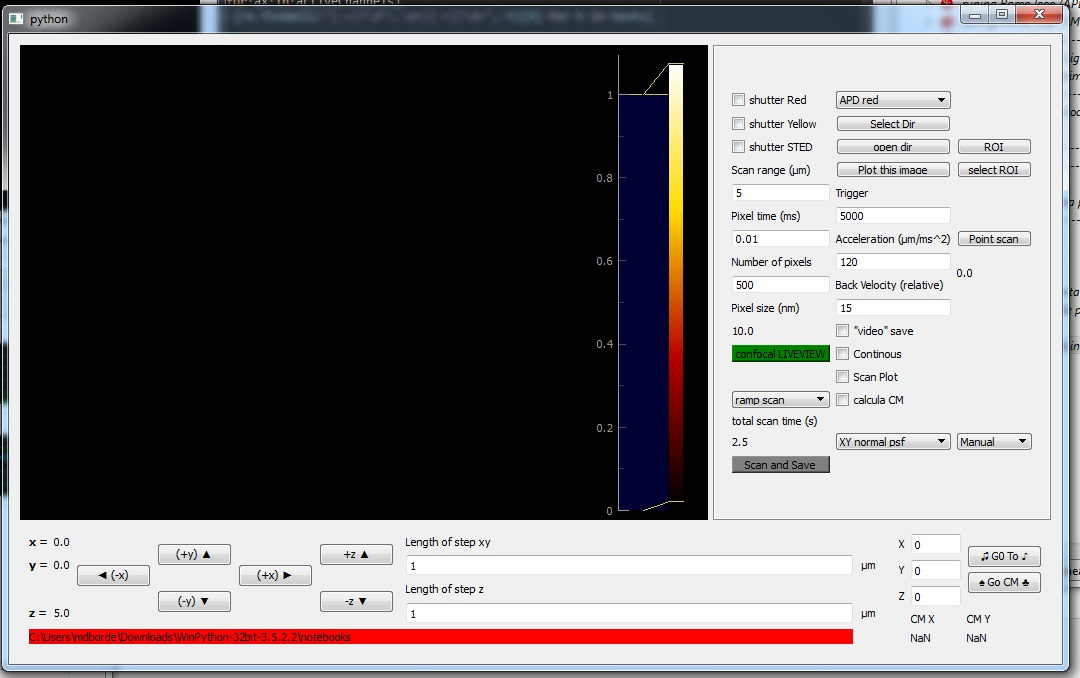
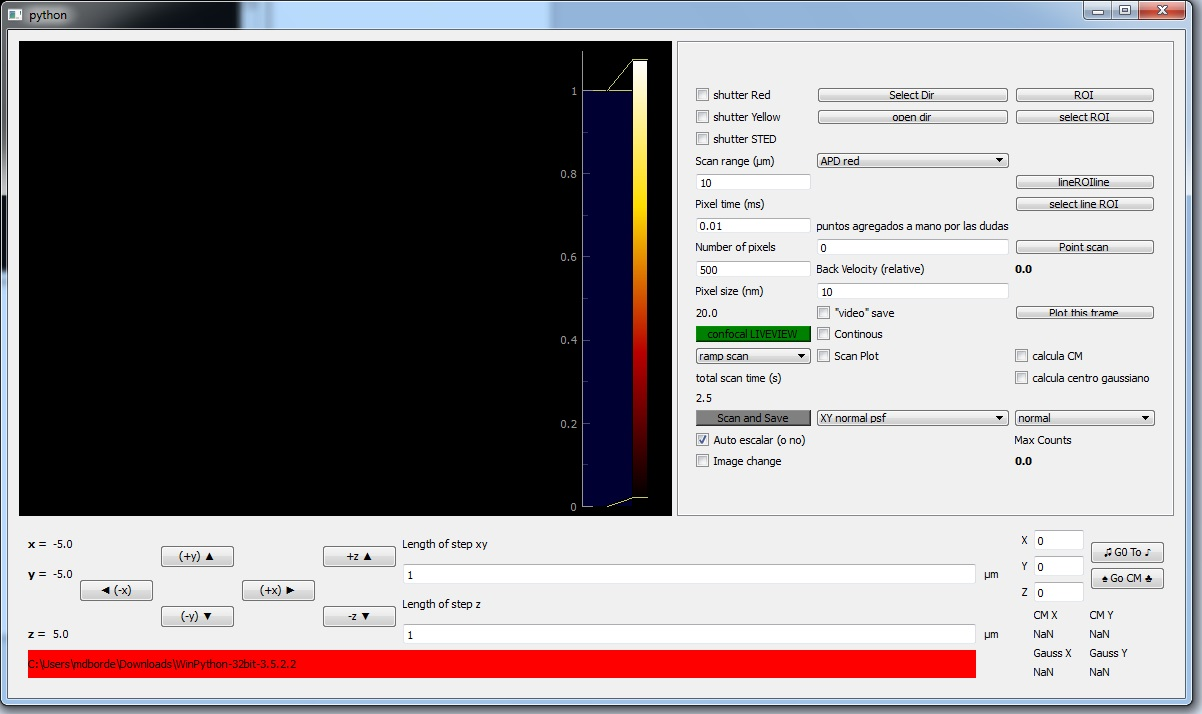
1ra version 'definitiva' para usar. Con ejecutable  y todo

diff --git a/Final -GitHub.py b/Final -GitHub.py
@@ -55,7 +55,7 @@ class ScanWidget(QtGui.QFrame):
     def graphplot(self):
 #        if self.dy==0:
 #            self.paramChanged()
-        self.getInitPos()
+#        self.getInitPos()
         self.paramChangedInitialize()
         if self.graphcheck.isChecked():
             if self.imagecheck.isChecked():
@@ -210,6 +210,7 @@ class ScanWidget(QtGui.QFrame):
 
     # autoLevel image
         self.autoLevelscheck = QtGui.QCheckBox('Auto escalar (o no)')
+        self.autoLevelscheck.setChecked(True)
         self.autoLevelscheck.clicked.connect(self.autoLevelset)
 
     # Shutters buttons
@@ -331,16 +332,16 @@ class ScanWidget(QtGui.QFrame):
         subgrid.addWidget(self.pixelSizeLabel,      9, 1)
         subgrid.addWidget(self.pixelSizeValue,     10, 1)
         subgrid.addWidget(self.liveviewButton,     11, 1)
-        subgrid.addWidget(self.scanMode,            13, 1)
-        subgrid.addWidget(self.timeTotalLabel,      14, 1)
-        subgrid.addWidget(self.timeTotalValue,      15, 1)
-        subgrid.addWidget(self.saveimageButton,     16, 1)
-        subgrid.addWidget(self.autoLevelscheck,     17, 1)
-
+        subgrid.addWidget(self.scanMode,           12, 1)
+        subgrid.addWidget(self.timeTotalLabel,     13, 1)
+        subgrid.addWidget(self.timeTotalValue,     14, 1)
+        subgrid.addWidget(self.saveimageButton,    15, 1)
+        subgrid.addWidget(self.autoLevelscheck,    16, 1)
+        subgrid.addWidget(self.imagecheck,         17, 1)
     # Columna 2
-        subgrid.addWidget(self.detectMode,        0, 2)
-        subgrid.addWidget(self.NameDirButton,     1, 2)
-        subgrid.addWidget(self.OpenButton,        2, 2)
+        subgrid.addWidget(self.NameDirButton,     0, 2)
+        subgrid.addWidget(self.OpenButton,        1, 2)
+        subgrid.addWidget(self.detectMode,        3, 2)
 #        subgrid.addWidget(self.triggerLabel,       4, 2)
 #        subgrid.addWidget(self.triggerEdit,        5, 2)
         subgrid.addWidget(self.accelerationLabel,  6, 2)
@@ -350,22 +351,23 @@ class ScanWidget(QtGui.QFrame):
         subgrid.addWidget(self.VideoCheck,        10, 2)
         subgrid.addWidget(self.Continouscheck,    11, 2)
         subgrid.addWidget(self.graphcheck,        12, 2)
-        subgrid.addWidget(self.CMcheck,           13, 2)
         subgrid.addWidget(self.PSFMode,            15, 2)
-        subgrid.addWidget(self.maxcountsLabel,     16, 2)
-        subgrid.addWidget(self.maxcountsEdit,      17, 2)
+
+
     # Columna 3
 #        subgrid.addWidget(self.algobutton,        0, 3)
-        subgrid.addWidget(self.ROIButton,           2, 3)
-        subgrid.addWidget(self.selectROIButton,     3, 3)
+        subgrid.addWidget(self.ROIButton,          0, 3)
+        subgrid.addWidget(self.selectROIButton,    1, 3)
         subgrid.addWidget(self.ROIlineButton,       4, 3)
         subgrid.addWidget(self.selectlineROIButton, 5, 3)
-        subgrid.addWidget(self.PointButton,         6, 3)
-        subgrid.addWidget(self.PointLabel,          7, 3)
-        subgrid.addWidget(self.plotLivebutton,       9, 3)
-        subgrid.addWidget(self.imagecheck,            11, 3)
-        subgrid.addWidget(self.Gausscheck,             13, 3)
-        subgrid.addWidget(self.presetsMode,             15, 3)
+        subgrid.addWidget(self.PointButton,          7, 3)
+        subgrid.addWidget(self.PointLabel,           8, 3)
+        subgrid.addWidget(self.plotLivebutton,       10, 3)
+        subgrid.addWidget(self.CMcheck,               12, 3)
+        subgrid.addWidget(self.Gausscheck,            13, 3)
+        subgrid.addWidget(self.presetsMode,            15, 3)
+        subgrid.addWidget(self.maxcountsLabel,         16, 3)
+        subgrid.addWidget(self.maxcountsEdit,          17, 3)
 
 # ---  Positioner part ---------------------------------
         # Axes control
@@ -537,6 +539,7 @@ class ScanWidget(QtGui.QFrame):
         self.image2 = np.zeros((self.numberofPixels, self.numberofPixels))#self.blankImage
         self.dy = 0
 
+        self.imageWidget = imageWidget
         #self.startRutine()  # que lea de algun lado la posicion y la setee como start x,y,z
 
 #    def startRutine(self):
@@ -1011,16 +1014,16 @@ class ScanWidget(QtGui.QFrame):
 
 #        j = self.dy
 
-#        if self.pixelsoffL == 0:
-#            self.counts[0] = self.APD[Napd-1] - self.APD[0]
-#            self.counts2[0] = self.APD2[Napd-1] - self.APD2[0]
-#
-#        else:
-#            self.counts[0] = self.APD[(Napd*(1+self.pixelsoffL))-1]-self.APD[(Napd*(self.pixelsoffL))-1]
-#            self.counts2[0] = self.APD2[(Napd*(1+self.pixelsoffL))-1]-self.APD2[(Napd*(1+self.pixelsoffL-1))-1]
+        if self.pixelsoffL == 0:
+            self.counts[0] = self.APD[Napd-1] - self.APD[0]
+            self.counts2[0] = self.APD2[Napd-1] - self.APD2[0]
 
-        self.counts[0] = 0
-        self.counts[0:5] = 5  # probando cosas
+        else:
+            self.counts[0] = self.APD[(Napd*(1+self.pixelsoffL))-1]-self.APD[(Napd*(self.pixelsoffL))-1]
+            self.counts2[0] = self.APD2[(Napd*(1+self.pixelsoffL))-1]-self.APD2[(Napd*(1+self.pixelsoffL-1))-1]
+
+#        self.counts[0] = 0
+#        self.counts[0:5] = 5  # probando cosas
 
         for i in range(1, self.numberofPixels):
             ei = ((self.pixelsoffL+i)   * Napd)-1
@@ -2133,13 +2136,14 @@ class ScanWidget(QtGui.QFrame):
 
 # %% Roi lineal
     def ROIlinear(self):
+        largo = self.numberofPixels/1.5+10
         def updatelineal():
             array = self.linearROI.getArrayRegion(self.image, self.img)
             self.curve.setData(array)
 
         if self.ROIlineButton.isChecked():
 
-            self.linearROI = pg.LineSegmentROI([[10, 64], [120,64]], pen='m')
+            self.linearROI = pg.LineSegmentROI([[10, 64], [largo,64]], pen='m')
             self.vb.addItem(self.linearROI)
             self.linearROI.sigRegionChanged.connect(updatelineal)
             self.p6 = self.imageWidget.addPlot(row=2,col=1,title="Updating plot")

diff --git a/PC position y scan -Qt4.py b/PC position y scan -Qt4.py
@@ -1169,71 +1169,94 @@ y guarde la imagen"""
         print(np.round(time.time()-tec,4),"s tarda con 1 for\n")
         self.img.setImage(mapa, autoLevels=False)
 
-# %%  ROI cosas
+        # %%  ROI cosas
     def ROIlinear(self):
-        self.NofPixels = self.numberofPixels
+        def updatelineal():
+            array = self.linearROI.getArrayRegion(self.image, self.img)
+            self.curve.setData(array)
 
         if self.ROIlineButton.isChecked():
-            print("entra")
 
-            self.linearROI = pg.LineSegmentROI((0,50))
+            self.linearROI = pg.LineSegmentROI([[10, 64], [120,64]], pen='m')
             self.vb.addItem(self.linearROI)
-#            self.roi = viewbox_tools.cropROI(ROIpos, self.vb)
-            print("termina")
+            self.linearROI.sigRegionChanged.connect(updatelineal)
+            self.p6 = self.imageWidget.addPlot(row=2,col=1,title="Updating plot")
+            self.curve = self.p6.plot(open='y')
         else:
             self.vb.removeItem(self.linearROI)
             self.linearROI.hide()
+            self.imageWidget.removeItem(self.p6)
 
     def selectLineROI(self):
-        self.NofPixels = self.numberofPixels
-        self.pxSize = self.pixelSize
-        self.liveviewStop()
-
-        print("Estoy en", float(self.xLabel.text()), float(self.yLabel.text()),
-              float(self.zLabel.text()))
-
         array = self.linearROI.getArrayRegion(self.image, self.img)
-        ROIpos = np.array(self.linearROI.pos())
-        print(ROIpos)
-        print(array)
-        newPos_px = tools.ROIscanRelativePOS(ROIpos,
-                                             self.NofPixels,
-                                             np.shape(array)[0])
-        print(newPos_px)
-#        print(self.initialPosition)
-        newPos_µm = newPos_px * self.pxSize + self.initialPosition[0:2]
-#
-        newPos_µm = np.around(newPos_µm, 2)
-        print(newPos_µm)
-        newRange_px = np.shape(array)[0]
-        newRange_µm = self.pxSize * newRange_px
-        newRange_µm = np.around(newRange_µm, 2)
-        print(newRange_px, newRange_µm)
         plt.plot(array)
         plt.show()
-        #-- Generate some data...
-#        x, y = np.mgrid[-5:5:0.1, -5:5:0.1]
-#        z = np.sqrt(x**2 + y**2) + np.sin(x**2 + y**2)
-#        
-#        #-- Extract the line...
-#        # Make a line with "num" points...
-#        x0, y0 = array[0] # These are in _pixel_ coordinates!!
-#        x1, y1 = 60, 75
-#        length = int(np.hypot(x1-x0, y1-y0))
-#        x, y = np.linspace(x0, x1, length), np.linspace(y0, y1, length)
-#        
-#        # Extract the values along the line
-#        zi = self.image[x.astype(np.int), y.astype(np.int)]
-#        
-#        #-- Plot...
-#        fig, axes = plt.subplots(nrows=2)
-#        axes[0].imshow(z)
-#        axes[0].plot([x0, x1], [y0, y1], 'ro-')
-#        axes[0].axis('image')
-#        
-#        axes[1].plot(zi)
-#        
+
+# %%  ROI cosas
+#    def ROIlinear(self):
+#        self.NofPixels = self.numberofPixels
+#
+#        if self.ROIlineButton.isChecked():
+#            print("entra")
+#
+#            self.linearROI = pg.LineSegmentROI((0,50))
+#            self.vb.addItem(self.linearROI)
+##            self.roi = viewbox_tools.cropROI(ROIpos, self.vb)
+#            print("termina")
+#        else:
+#            self.vb.removeItem(self.linearROI)
+#            self.linearROI.hide()
+#
+#    def selectLineROI(self):
+#        self.NofPixels = self.numberofPixels
+#        self.pxSize = self.pixelSize
+#        self.liveviewStop()
+#
+#        print("Estoy en", float(self.xLabel.text()), float(self.yLabel.text()),
+#              float(self.zLabel.text()))
+#
+#        array = self.linearROI.getArrayRegion(self.image, self.img)
+#        ROIpos = np.array(self.linearROI.pos())
+#        print(ROIpos)
+#        print(array)
+#        newPos_px = tools.ROIscanRelativePOS(ROIpos,
+#                                             self.NofPixels,
+#                                             np.shape(array)[0])
+#        print(newPos_px)
+##        print(self.initialPosition)
+#        newPos_µm = newPos_px * self.pxSize + self.initialPosition[0:2]
+##
+#        newPos_µm = np.around(newPos_µm, 2)
+#        print(newPos_µm)
+#        newRange_px = np.shape(array)[0]
+#        newRange_µm = self.pxSize * newRange_px
+#        newRange_µm = np.around(newRange_µm, 2)
+#        print(newRange_px, newRange_µm)
+#        plt.plot(array)
 #        plt.show()
+#        #-- Generate some data...
+##        x, y = np.mgrid[-5:5:0.1, -5:5:0.1]
+##        z = np.sqrt(x**2 + y**2) + np.sin(x**2 + y**2)
+##        
+##        #-- Extract the line...
+##        # Make a line with "num" points...
+##        x0, y0 = array[0] # These are in _pixel_ coordinates!!
+##        x1, y1 = 60, 75
+##        length = int(np.hypot(x1-x0, y1-y0))
+##        x, y = np.linspace(x0, x1, length), np.linspace(y0, y1, length)
+##        
+##        # Extract the values along the line
+##        zi = self.image[x.astype(np.int), y.astype(np.int)]
+##        
+##        #-- Plot...
+##        fig, axes = plt.subplots(nrows=2)
+##        axes[0].imshow(z)
+##        axes[0].plot([x0, x1], [y0, y1], 'ro-')
+##        axes[0].axis('image')
+##        
+##        axes[1].plot(zi)
+##        
+##        plt.show()
 
 #import pyqtgraph.examples
 #pyqtgraph.examples.run()
